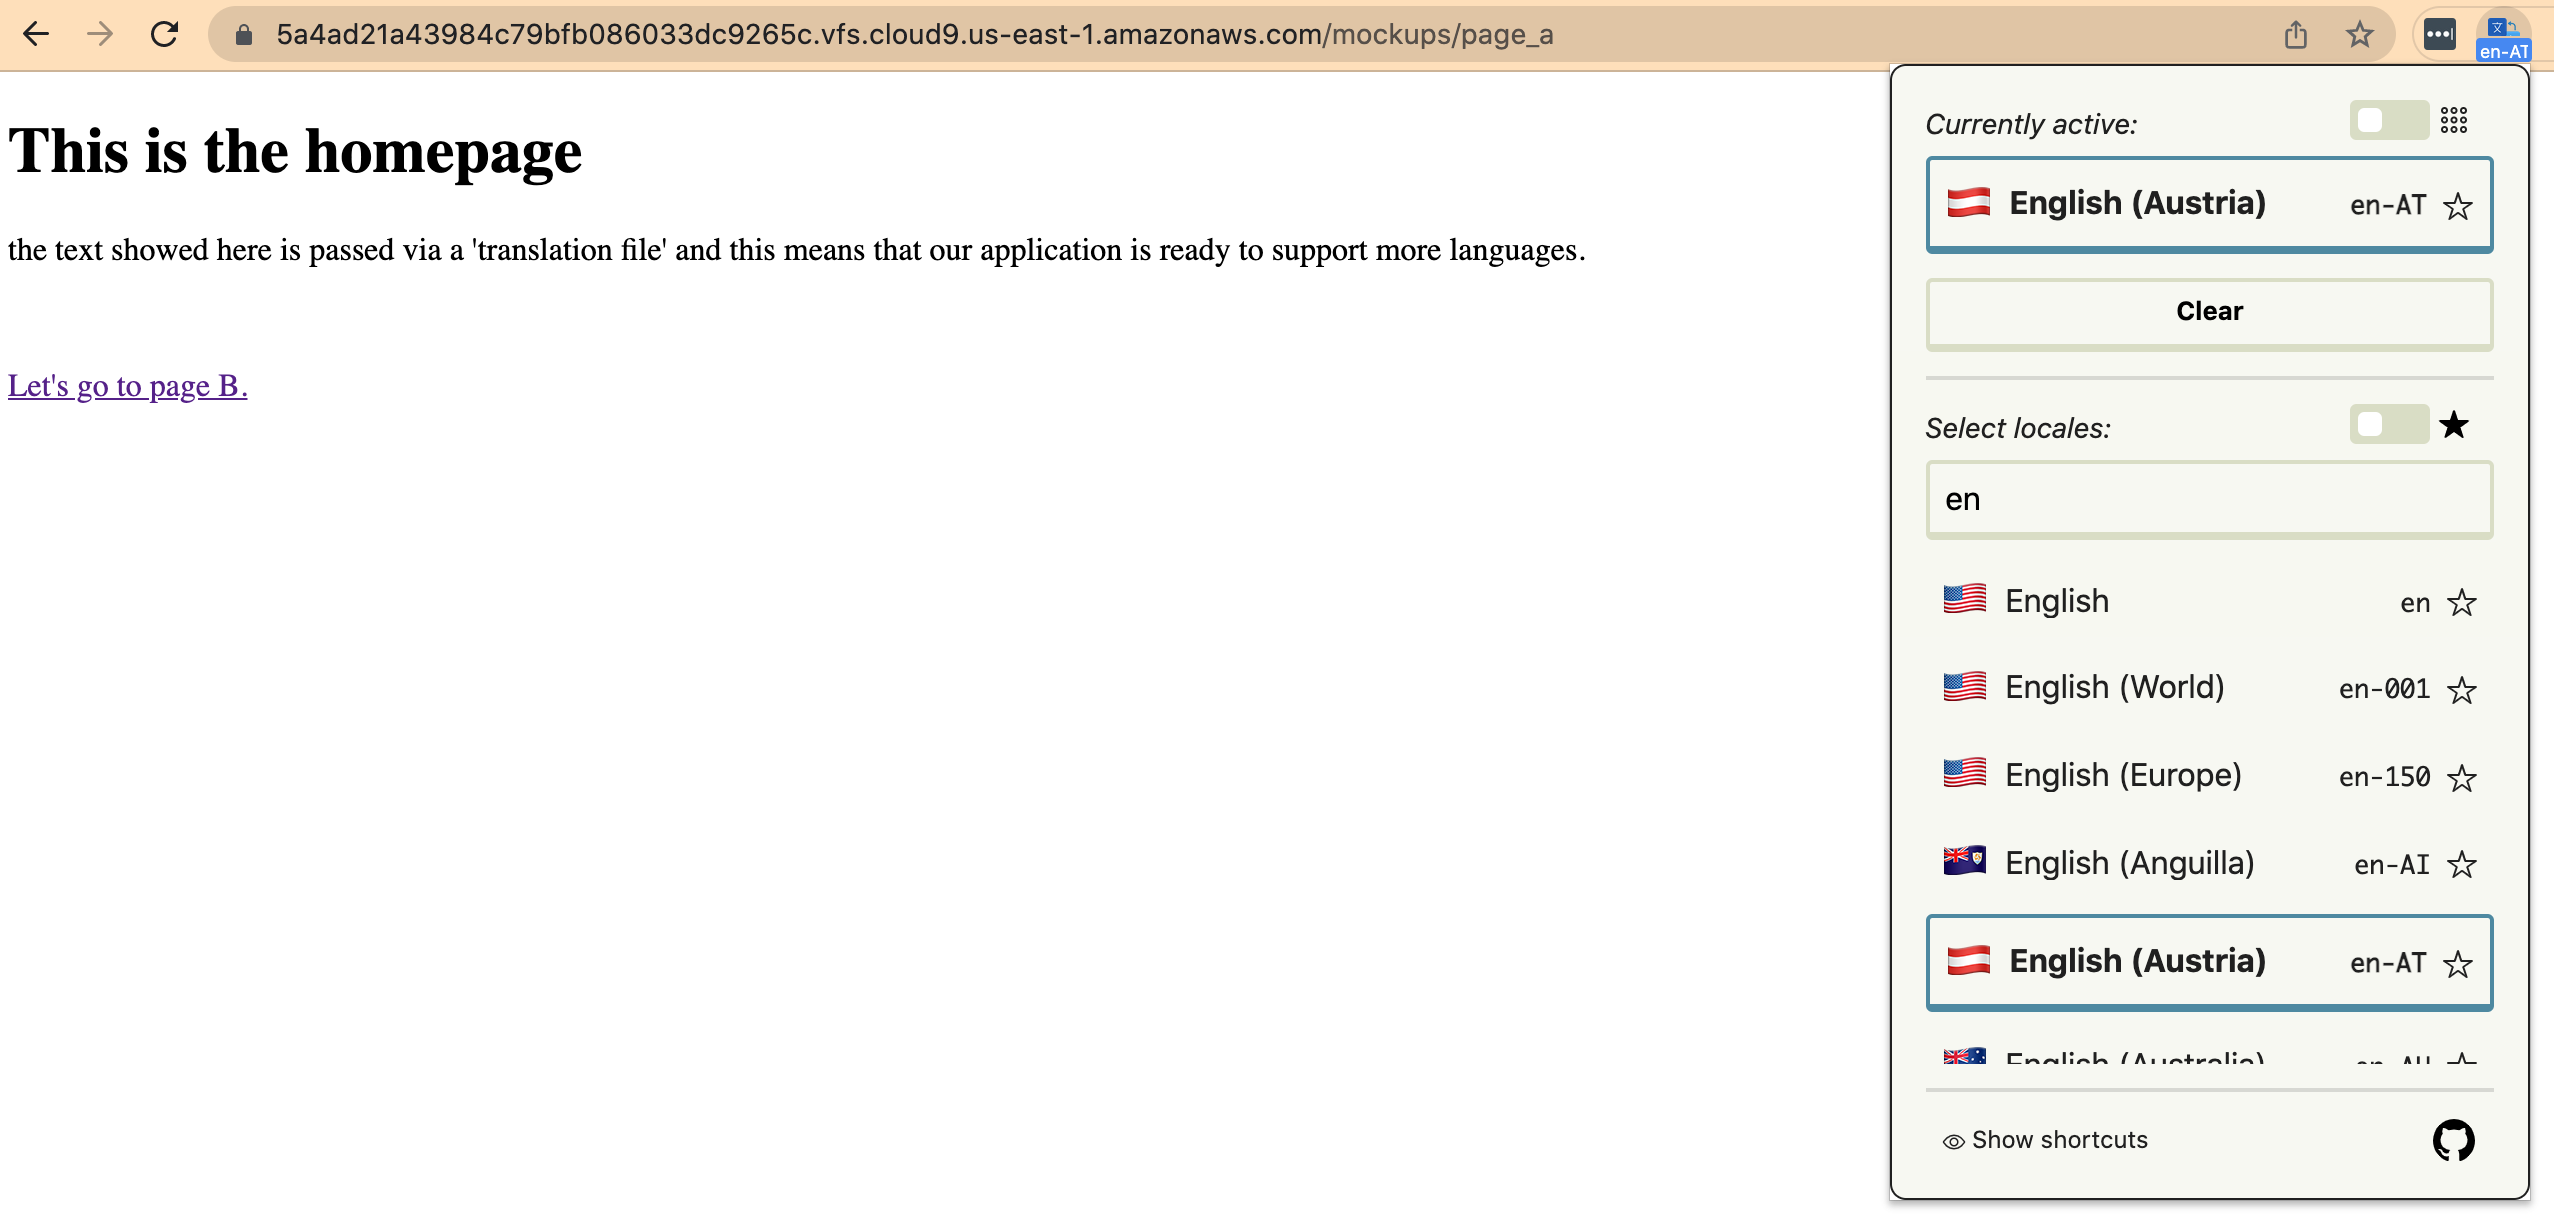
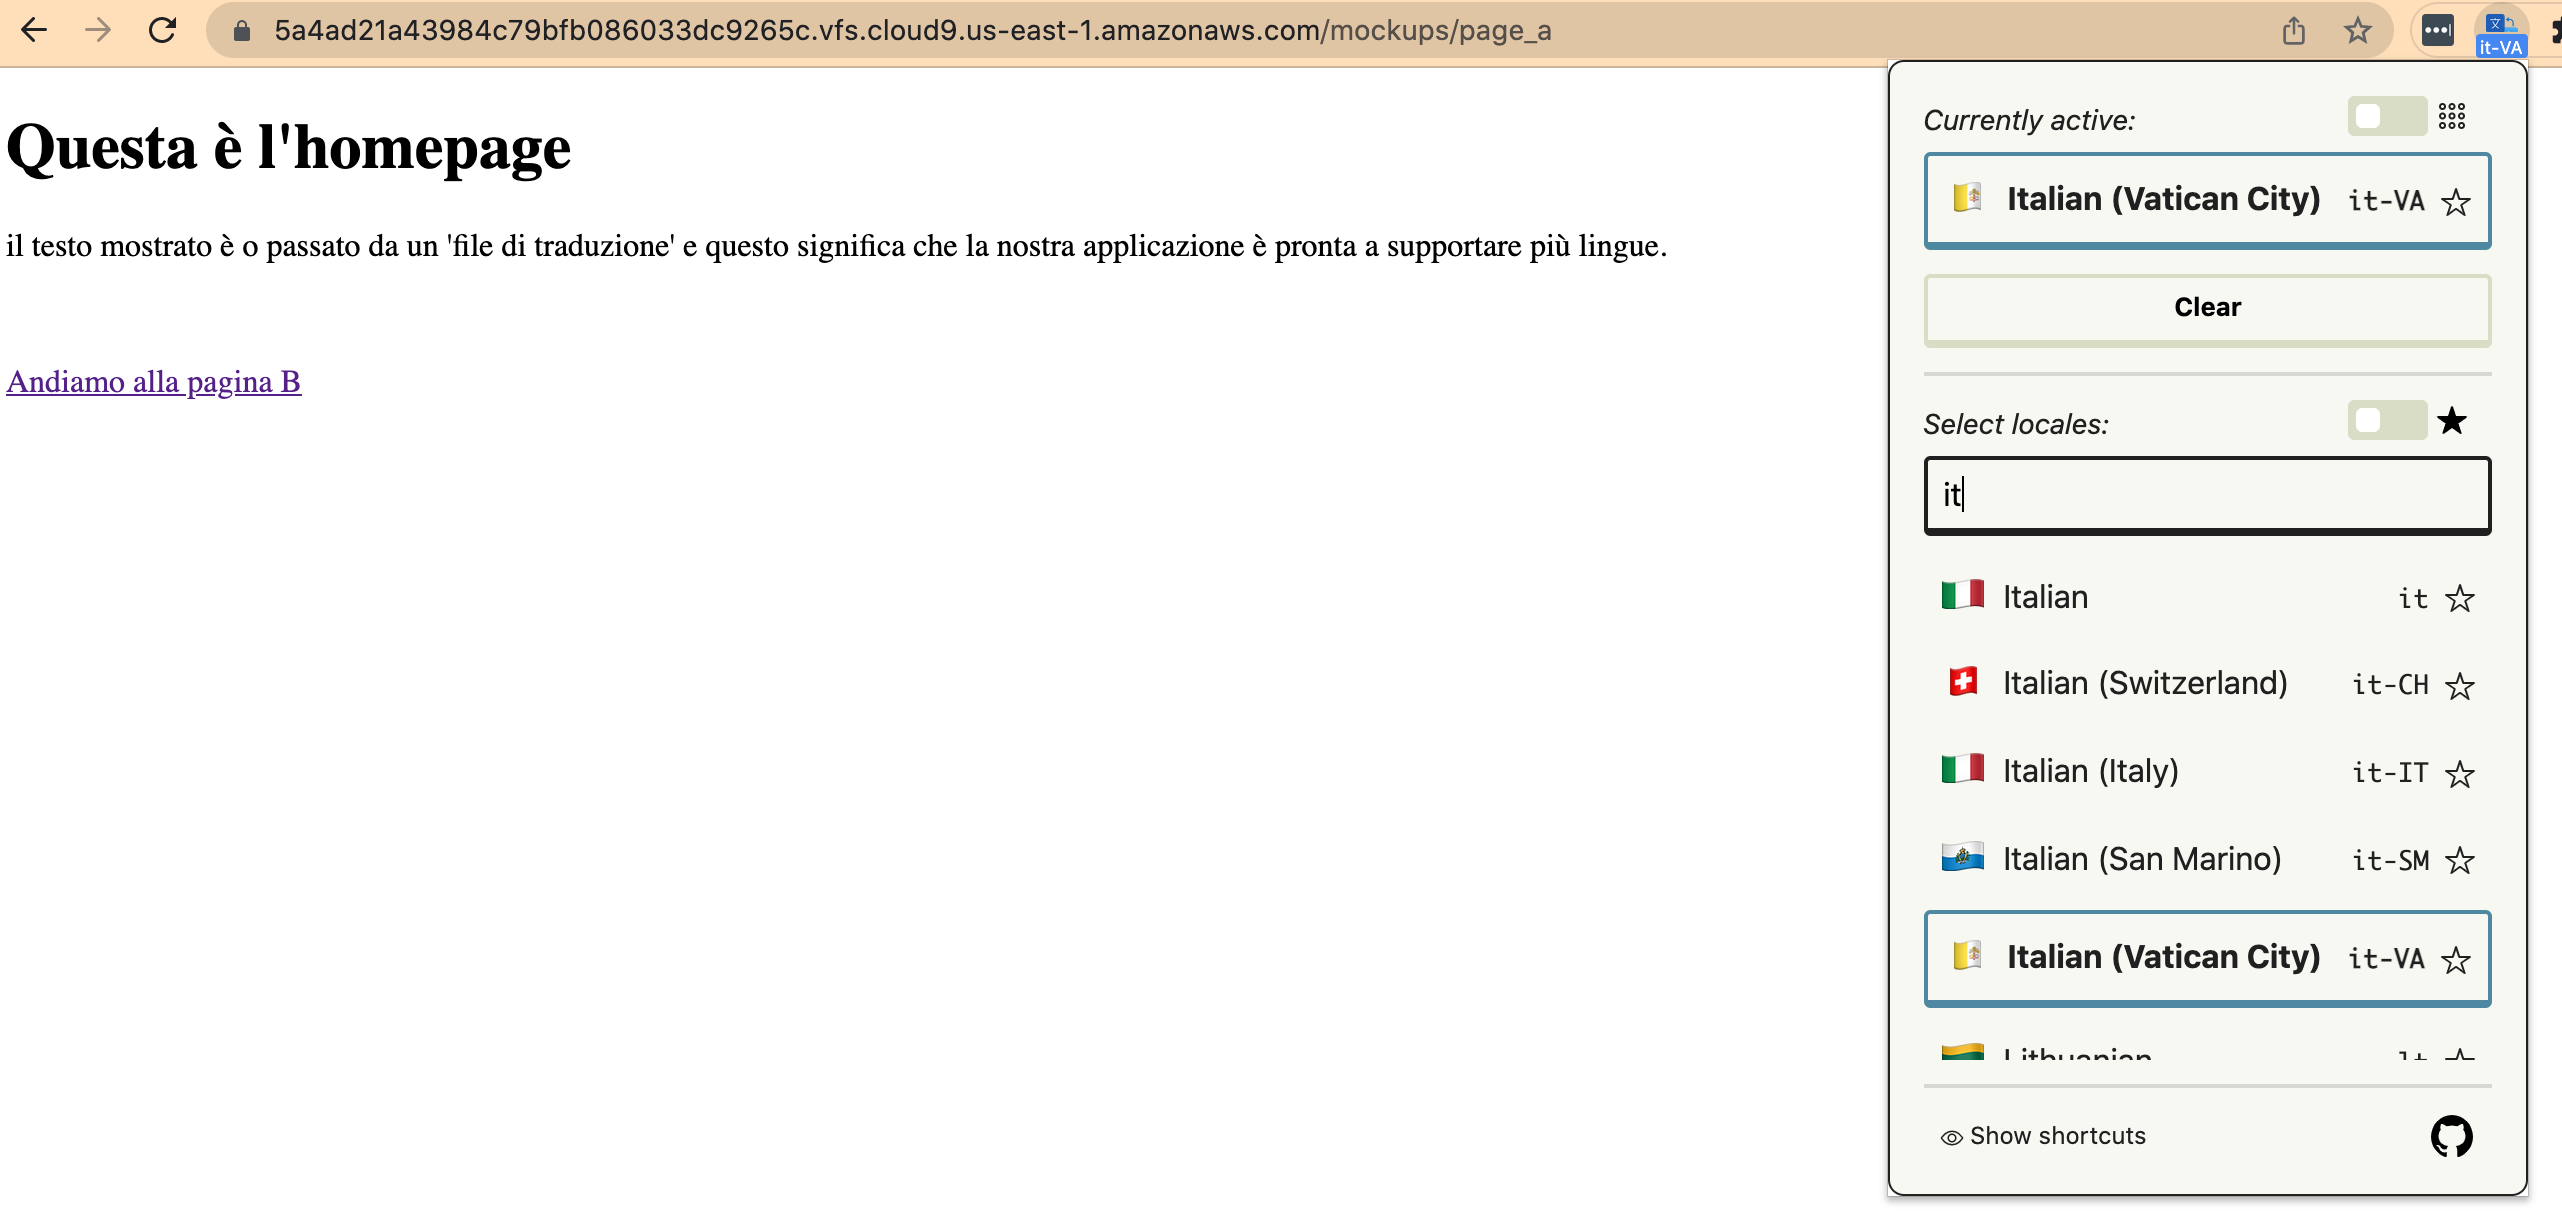
Book 01-base - 06-mockups_i18 19

diff --git a/01-base/06-mockups_i18n/03-change_language_by_url_browser-it.md b/01-base/06-mockups_i18n/03-change_language_by_url_browser-it.md
@@ -134,53 +134,57 @@ Qualsiasi altro valore diamo a *locale* ci viene data la lingua italiana, che è
 ## Cambiamo da impostazione browser
 
 Cambiamo la lingua a seconda di come è impostato il nostro browser. 
-Per far questo si usa il parametro "Accept-Language" del "HTTP headers".
+Per far questo usiamo il parametro "Accept-Language" del "HTTP headers".
 
 > Per approfondimenti vedi [Mozilla Accept-Language](developer.mozzilla.org/en-US/docs/Web/Headers/Accept-Language)
 
 La stringa che è passata ha la lingua principale con due caratteri minuscoli e poi eventuali sotto-gruppi ed anche una variabile per dare un "peso" che indica le preferenze delle varie lingue.
+
 Ad esempio la stringa:
 
 - Accept-Language : fr-CH, fr;q=0.9, en;q=0.8, de;q=0.7, *;q=0.5
 
-Noi applichiamo una semplice funzione di regex per prendere solo le lingue principali; quelle con i due caratteri in minuscolo:
+Noi applichiamo una semplice funzione di regex `[a-z]{2}` per prendere solo le lingue principali; quelle con i due caratteri in minuscolo:
 
-- [a-z]{2}
+Per testare la funzione regex si possiamo usare **[rubular.com](https://rubular.com/)**.
 
-Per testare la funzione regex si può usare **rubular.com**
+![fig01](https://github.com/flaviobordonidev/leanpubabrandnewcms/blob/master/01-base/06-mockups_i18n/03_fig01-rubular_regex_verifier.png)
 
-Prepariamo quindi il metodo "locale_from_header" che ci restituisce una stringa con le due lettere minuscole da passare a I18n.locale.
+Inseriamo quindi la linea di codice che assegna a *params[:locale]* la stringa con le due lettere minuscole della lingua del browser, se *params[:locale]* non è presente nell'url.
 
 ***codice 03 - .../app/controllers/appllication_controller.rb - line: 1***
 
 ```ruby
-  def locale_from_header
-    request.env.fetch('HTTP_ACCEPT_LANGUAGE', '').scan(/[a-z]{2}/).first
-  end
+      params[:locale] = request.env.fetch('HTTP_ACCEPT_LANGUAGE', '').scan(/[a-z]{2}/).first if params[:locale].blank?
 ```
 
-[tutto il codice](https://github.com/flaviobordonidev/leanpubabrandnewcms/blob/master/01-base/06-mockups_i18n/03_02-controllers-appllication_controller.rb)
+[tutto il codice](https://github.com/flaviobordonidev/leanpubabrandnewcms/blob/master/01-base/06-mockups_i18n/03_03-controllers-appllication_controller.rb)
 
-fetch('A', 'B') prende 'A' se presente altrimenti prende 'B', nel nostro caso se non è presente HTTP_ACCEPT_LANGUAGE è passatta una stringa vuota ''.
+la funzione *fetch('A', 'B')* prende *'A'* se presente altrimenti prende *'B'*, nel nostro caso se non è presente *HTTP_ACCEPT_LANGUAGE* è passatta una stringa vuota *''*.
 
-Se è impostato il francese otterremo "fr", se è l'inglese otterremo "en", se italiano otterremo "it", ecc...
+> Se è impostato il francese otterremo "fr", se è l'inglese otterremo "en", se italiano otterremo "it", ecc...
 
-Aggiungiamo quindi questo metodo come alternativa al "params" già impostato
 
-***codice 03 - .../app/controllers/appllication_controller.rb - line: 1***
 
+## Verifichiamo preview
+
+```bash
+$ sudo service postgresql start
+$ rails s
 ```
-      I18n.locale = params[:locale] || locale_from_header || I18n.default_locale
-```
 
-[tutto il codice](https://github.com/flaviobordonidev/leanpubabrandnewcms/blob/master/01-base/06-mockups_i18n/03_02-controllers-appllication_controller.rb)
+Adesso, sul browser, per la lingua inglese dobbiamo passare nell'URL il parametro *locale=en*.
+Qualsiasi altro valore diamo a *locale* ci viene data la lingua italiana, che è quella impostata di default.
 
+- https://mycloud9path.amazonaws.com/mockups/page_a
+- https://mycloud9path.amazonaws.com/mockups/page_a?locale=en 
+- https://mycloud9path.amazonaws.com/mockups/page_a?locale=es
 
-
-![fig01](https://github.com/flaviobordonidev/leanpubabrandnewcms/blob/master/01-base/06-mockups_i18n/03_fig01-use_browser_language.png)
-
+Cambiamo anche dinamicamente la lingua del browser con la Google chrome Extension: *Locale Switcher*.
 
 ![fig02](https://github.com/flaviobordonidev/leanpubabrandnewcms/blob/master/01-base/06-mockups_i18n/03_fig02-use_browser_language.png)
+
+![fig03](https://github.com/flaviobordonidev/leanpubabrandnewcms/blob/master/01-base/06-mockups_i18n/03_fig03-use_browser_language.png)
 
 
 

diff --git a/99-code_references/ruby_data_types_and_i18n/06-regex.md b/99-code_references/ruby_data_types_and_i18n/06-regex.md
@@ -1,0 +1,10 @@
+# <a name="top"></a> Regex
+
+regular expressions
+
+
+## Rubular
+
+Rubular is a Ruby-based regular expression editor. It's a handy way to test regular expressions as you write them.
+
+- [rubular.com](https://rubular.com/)
